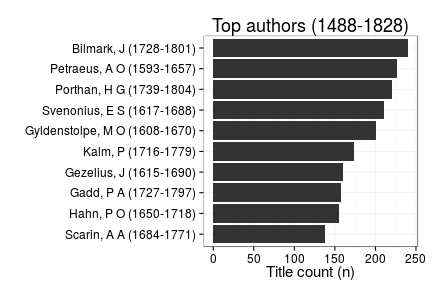
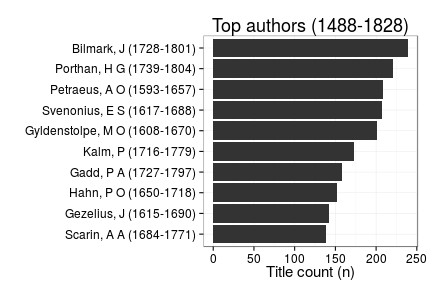
author plots

diff --git a/inst/examples/20151209-HelsinkiDH.md b/inst/examples/20151209-HelsinkiDH.md
@@ -15,3 +15,8 @@ This markdown document contains presentation material for [Digital History in Fi
 
 
 ![plot of chunk 20151209-HDH-Author](figure/20151209-HDH-Author-1.png) ![plot of chunk 20151209-HDH-Author](figure/20151209-HDH-Author-2.png) 
+
+
+![plot of chunk 20151209-HDH-topauthor](figure/20151209-HDH-topauthor-1.png) ![plot of chunk 20151209-HDH-topauthor](figure/20151209-HDH-topauthor-2.png) 
+
+
